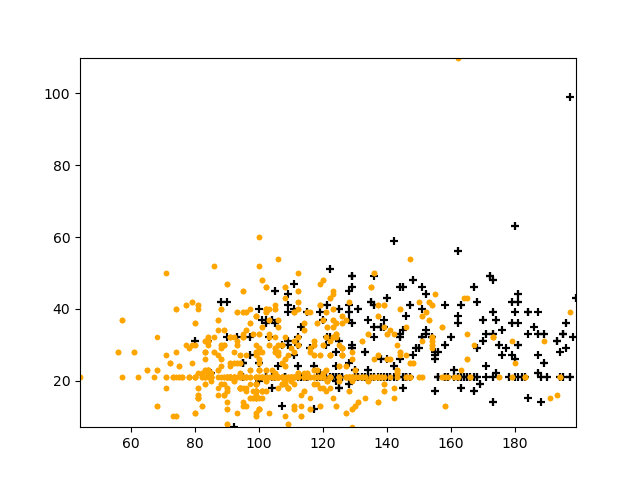
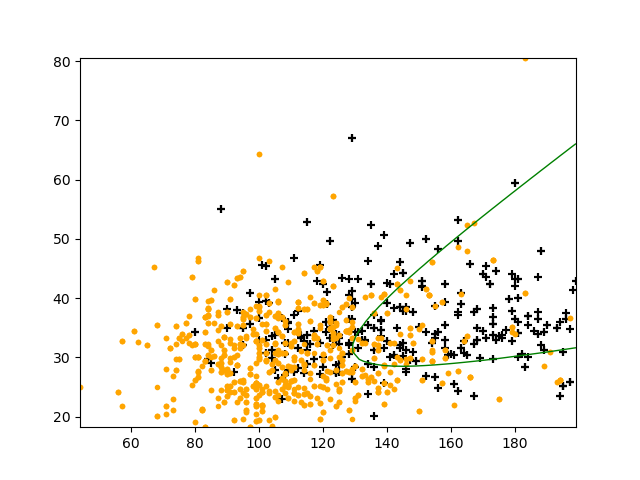
ADD: Regresión logistica regularizada/polinomica

diff --git a/proyecto_final/proyecto_final.py b/proyecto_final/proyecto_final.py
@@ -1,4 +1,5 @@
 import numpy as np
+from numpy.core.fromnumeric import shape
 from numpy.lib.shape_base import column_stack
 import matplotlib.pyplot as plt
 from numpy.random import normal
@@ -218,7 +219,7 @@ def pinta_frontera(X,Y,theta,texto1,texto2):
     plt.close()
 
 
-def apartado3():
+def reg_logistica_graficas():
     print("Estamos cargando")
     df = read_csv('diabetes-dataset.csv', header=0)
 
@@ -249,16 +250,6 @@ def apartado3():
             # Pintamos la frontera
             pinta_frontera(auxX,y,theta_opt,df.columns[i], df.columns[j])
 
-def normaliza(matriz):
-    #ui = media ; si = desviación típica
-    matriz_normal = np.empty_like(matriz)
-
-    u = np.mean(matriz, axis=0)
-    s = np.std(matriz, axis=0)
-
-    matriz_normal = (matriz - u) / s
-
-    return [matriz_normal, u, s]
 
 def calcula_porcentaje(X,Y,theta):
     # Calculamos los valores estimados segun la theta que hemos obtenido
@@ -275,7 +266,7 @@ def calcula_porcentaje(X,Y,theta):
     return ev_correct/len(sig) * 100
 
 
-def apartado3_1():
+def reg_logistica():
     print("Estamos cargando")
     df = read_csv('diabetes-dataset.csv', header=0)
 
@@ -287,8 +278,6 @@ def apartado3_1():
     y = a[:,-1]
     print("Ya hemos cargado")
     
-    #Normalizamos los datos (da el mismo resultado normalizando que sin normalizar)
-    #X = normaliza(X)[0]
 
     #Ejemplos de entrenamiento
     entX = X[0:(int)(2000*0.6)]
@@ -317,4 +306,125 @@ def apartado3_1():
     # Mostramos por pantalla para confirmar que el valor es el esperado
     print("Coste minimo con theta optimizada: " + str(cost))
 
-apartado3()
+# Apartado 2.2
+def func_coste_reg(theta,X,Y, lamb):
+    m = len(X)
+    return coste_vec(theta, X, Y) + lamb/2*m * np.sum(theta*theta)
+
+def gradiente_reg(theta, X,Y, lamb):
+    m = len(X)
+    return gradiente(theta, X, Y) + lamb/m * theta
+
+# Apartado 2.2, pintado de frontera circular y optimizacion
+def pintaFronteraCircular(theta,X,Y,poly, landa, texto1, texto2):
+     # Creamos grafica
+    fig = plt.figure()
+    
+    # Adding axes on the figure
+    ax = fig.add_subplot(111)
+
+    x1_min, x1_max = X[:, 0].min(), X[:, 0].max()
+    x2_min, x2_max = X[:, 1].min(), X[:, 1].max()
+    
+    xx1, xx2 = np.meshgrid(np.linspace(x1_min, x1_max),
+    np.linspace(x2_min, x2_max))
+    
+    h = func_sigmoid(poly.fit_transform(np.c_[xx1.ravel(),
+    xx2.ravel()]).dot(theta))
+    
+    h = h.reshape(xx1.shape)
+    
+    plt.contour(xx1, xx2, h, [0.5], linewidths=1, colors='g')
+
+    # Obtiene un vector con los índices de los ejemplos positivos (1 en reg logistica)
+    pos=np.where(Y == 1)
+    # Obtiene un vector con los índices de los ejemplos negativos (0 en reg logistica)
+    neg=np.where(Y == 0)
+
+    # Dibuja los ejemplos positivos
+    plt.scatter(X[ pos , 0 ] , X[ pos , 1 ] , marker='+' , c='k', label = "Diabético")
+    # Dibuja los ejemplos negativos
+    plt.scatter(X[ neg, 0 ] , X[ neg , 1 ] , marker='.' , c='orange', label = "No diabético")
+
+     # Anadimos leyenda a la grafica y la posicionamos bien
+    plt.legend(loc = 'upper right')
+
+    # Anadimos el texto a los ejes (como en la grafica que aparece de ejemplo)
+    ax.set_xlabel(texto1, fontsize=10)
+    ax.set_ylabel(texto2, fontsize=10)
+
+    # guardamos grafica
+    plt.savefig("gráficas/Reg_Polinomica/"+ texto1 + texto2 + ".png")
+    plt.show()
+    plt.close()
+
+def reg_logistica_reg_graficas_poly():
+    print("Estamos cargando")
+    df = read_csv('diabetes-dataset.csv', header=0)
+
+    for i in range(1, len(df.columns) - 1):
+        df[df.columns[i]] = df[df.columns[i]].replace({ 0 : df[df.columns[i]].mean() })
+
+    a = df.to_numpy().astype(float)
+    X = a[:,:-1]
+    y = a[:,-1]
+    print("Ya hemos cargado")
+
+
+    for i in range(1, np.shape(X)[1]):
+        for j in range(i+1, np.shape(X)[1]):
+            
+            auxX = column_stack((X[:,i], X[:,j]))
+
+            # Apartado 2.1
+            landa = 1
+            poly = PolynomialFeatures(3) # Hasta la sexta potencia
+            newX = poly.fit_transform(auxX)
+            
+            theta = np.zeros(np.shape(newX)[1])
+            print("Valor de la funcion de coste regularizada "+ str(func_coste_reg(theta, newX,y, landa)))
+
+            # Apartado 2.3
+            result = fmin_tnc(func_coste_reg,theta , gradiente_reg , args =(newX, y, landa))
+
+            pintaFronteraCircular(result[0], auxX, y, poly, landa, df.columns[i], df.columns[j])
+
+def regresion_logistica_reg():
+    print("Estamos cargando")
+    df = read_csv('diabetes-dataset.csv', header=0)
+
+    for i in range(1, len(df.columns) - 1):
+        df[df.columns[i]] = df[df.columns[i]].replace({ 0 : df[df.columns[i]].mean() })
+
+    a = df.to_numpy().astype(float)
+    X = a[:,:-1]
+    y = a[:,-1]
+    print("Ya hemos cargado")
+
+    #Ejemplos de entrenamiento
+    entX = X[0:(int)(2000*0.6)]
+    enty = y[0:(int)(2000*0.6)]
+    #Ejemplos de validacion
+    Xval = X[(int)(2000*0.6): (int)(2000*0.9)]
+    yval = y[(int)(2000*0.6): (int)(2000*0.9)]
+    #Ejemplos de test
+    Xtest = X[(int)(2000*0.9):2000]
+    ytest = y[(int)(2000*0.9):2000]
+
+    poly = PolynomialFeatures(3) # Hasta la tercera potencia
+    newX = poly.fit_transform(entX)
+    Xval = poly.fit_transform(Xval)
+    Xtest = poly.fit_transform(Xtest)
+    landas = np.array([ 0.01 ,0.03, 0.1, 0.3, 1, 3])
+
+    for landa in landas:
+        theta = np.zeros(np.shape(newX)[1])
+
+        print("Valor de la funcion de coste regularizada "+ str(func_coste_reg(theta, newX,enty, landa)))
+
+        theta_opt = fmin_tnc(func_coste_reg,theta , gradiente_reg , args =(newX, enty, landa))[0]
+        print("Porcentaje de ejemplos de validacion clasificados correctamente: " + str(calcula_porcentaje(Xval, yval, theta_opt)) + " %")
+        print("Ejemplos de test clasificados correctamente: " + str(calcula_porcentaje(Xtest, ytest, theta_opt)) + " %")
+
+
+reg_logistica_reg_graficas_poly()
